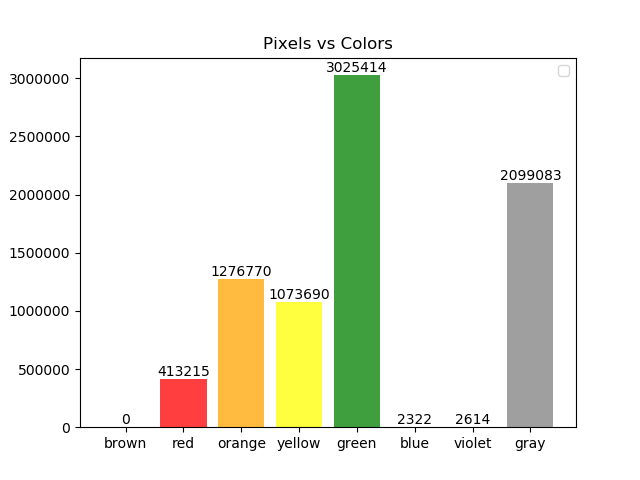
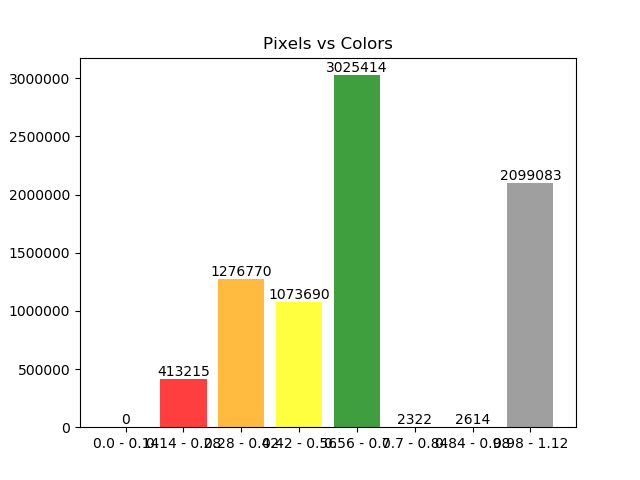
Fix xticks and labels

Changed region(s): [[0.125, 0.9062, 0.9062, 0.9375]]

diff --git a/main/eit_classify.py b/main/eit_classify.py
@@ -24,9 +24,12 @@ color_length = high / len(colors)
 color_length_array = np.full((1, len(intensity) - 1), round(color_length, 2))
 color_length_array = np.insert(color_length_array, 0, 0)
 intensity_range = np.cumsum(color_length_array)
+intensity_range_strings = []
 
 for index, color in enumerate(colors):
     # print(intensity_range[index], intensity_range[index + 1])
+    
+    intensity_range_strings.append(str(round(intensity_range[index], 2)) + ' - ' + str(round(intensity_range[index + 1], 2)))
     classify_dict[color] = np.where(np.logical_and(img_one_d >= intensity_range[index], img_one_d < intensity_range[index + 1]))[0]
 
 classify_dict_count = {}
@@ -54,8 +57,7 @@ def autolabel(rects):
 autolabel(rects)
 
 plt.bar(y_pos, pixels, align='center', alpha=0.5, color=colors_tuple)
-plt.legend()
-plt.xticks(y_pos, colors_tuple)
+plt.xticks(y_pos, tuple(intensity_range_strings))
 plt.ylabel('Pixels Count')
 plt.title('Pixels vs Colors')
 plt.savefig(PARENT_DIR + '\\assets\\eit_classify_plot')
